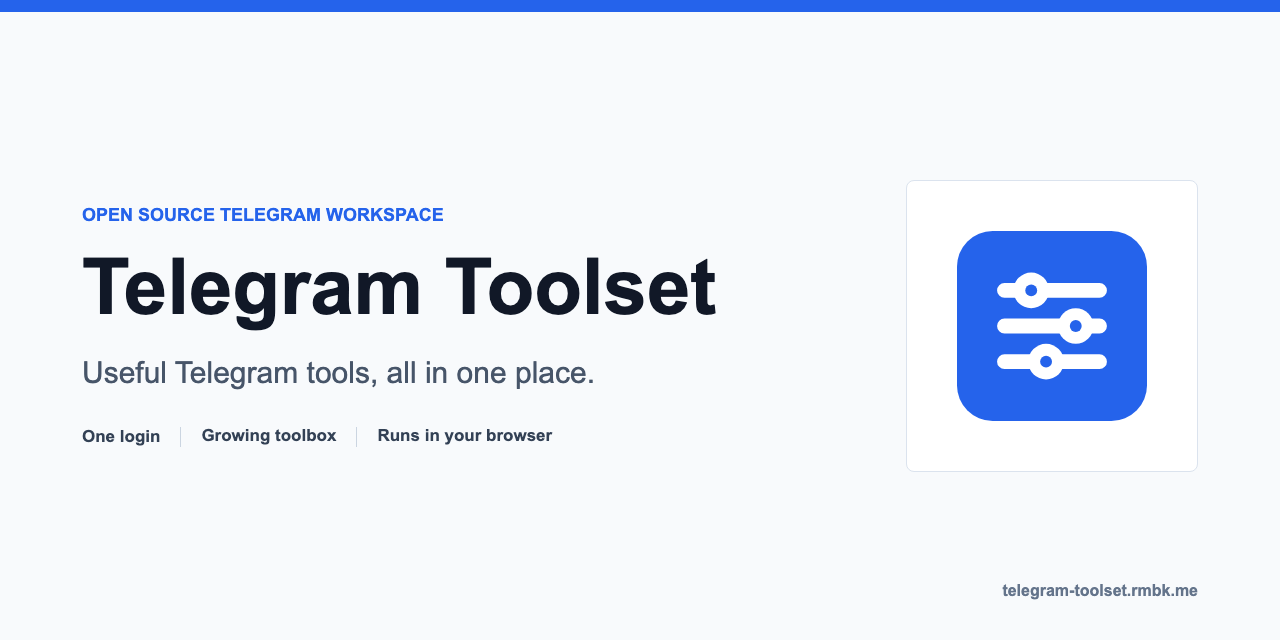
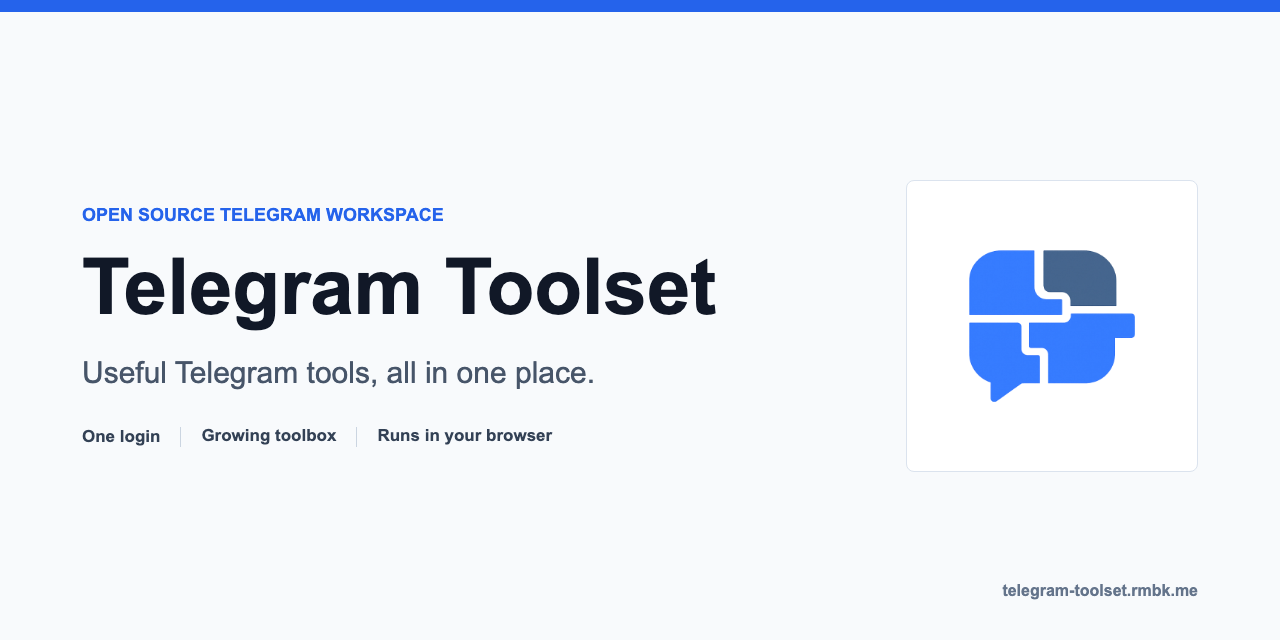
chore: adopt new brand assets

Changed region(s): [[0.75, 0.3438, 0.9062, 0.6562]]

diff --git a/tests/e2e-dist/smoke.spec.ts b/tests/e2e-dist/smoke.spec.ts
@@ -32,19 +32,32 @@ test.describe('Production build smoke', () => {
       'content',
       'https://telegram-toolset.rmbk.me/social-preview.png',
     )
+    await expect(page.locator('link[rel="icon"]')).toHaveAttribute('href', '/favicon.png')
+
+    const imageDimensions = (source: string) =>
+      page.evaluate(async (url) => {
+        const image = new Image()
+        image.src = url
+        await image.decode()
+        return { width: image.naturalWidth, height: image.naturalHeight }
+      }, source)
+
+    const favicon = await page.request.get('/favicon.png')
+    expect(favicon.ok()).toBe(true)
+    expect(favicon.headers()['content-type']).toContain('image/png')
+    expect(await imageDimensions('/favicon.png')).toEqual({ width: 256, height: 256 })
+
+    const logo = await page.request.get('/logo.png')
+    expect(logo.ok()).toBe(true)
+    expect(logo.headers()['content-type']).toContain('image/png')
+    expect(await imageDimensions('/logo.png')).toEqual({ width: 512, height: 512 })
 
     const socialPreview = await page.request.get('/social-preview.png')
     expect(socialPreview.ok()).toBe(true)
     expect(socialPreview.headers()['content-type']).toContain('image/png')
     expect((await socialPreview.body()).byteLength).toBeGreaterThan(10_000)
 
-    const socialPreviewDimensions = await page.evaluate(async () => {
-      const image = new Image()
-      image.src = '/social-preview.png'
-      await image.decode()
-      return { width: image.naturalWidth, height: image.naturalHeight }
-    })
-    expect(socialPreviewDimensions).toEqual({ width: 1280, height: 640 })
+    expect(await imageDimensions('/social-preview.png')).toEqual({ width: 1280, height: 640 })
 
     // Opening a module pulls in the lazy auth flow in the production bundle.
     await page.getByText('Account Info').click()

diff --git a/index.html b/index.html
@@ -5,7 +5,7 @@
     <meta name="viewport" content="width=device-width, initial-scale=1.0" />
     <title>Telegram Toolset</title>
 
-    <link rel="icon" href="/favicon.svg" type="image/svg+xml" />
+    <link rel="icon" href="/favicon.png" type="image/png" />
 
     <!-- SEO -->
     <meta

diff --git a/AGENTS.md b/AGENTS.md
@@ -28,8 +28,10 @@ This repository is no longer treated as a single-purpose deleted-messages utilit
   desktop releases.
 - `AGENTS.md` is the single agent-facing guide for repo rules, architecture notes, product direction, and the staged productionization order.
 - If docs and current code disagree, treat the codebase as the source of current behavior and this guide as the source of target direction.
-- `public/social-preview.png` is generated by `scripts/generate-social-preview.mjs`. Edit the source
-  and run `npm run social:generate`; never hand-edit the PNG.
+- `public/logo.png` is the primary brand mark and `public/favicon.png` is its small monochrome
+  variant. `public/social-preview.png` is generated from the primary mark by
+  `scripts/generate-social-preview.mjs`; edit the source and run `npm run social:generate` rather
+  than hand-editing the social image.
 
 ## Documentation Durability
 

diff --git a/CONTRIBUTING.md b/CONTRIBUTING.md
@@ -110,6 +110,10 @@ passes.
 
 ## Public Assets
 
+The primary brand mark is `public/logo.png`; the small monochrome variant is
+`public/favicon.png`. Keep both square, transparent PNGs and verify the favicon at its actual small
+display size.
+
 The README and website share the generated 1280×640 social image at `public/social-preview.png`.
 Change its deterministic HTML/CSS source in `scripts/generate-social-preview.mjs`, then regenerate it:
 
